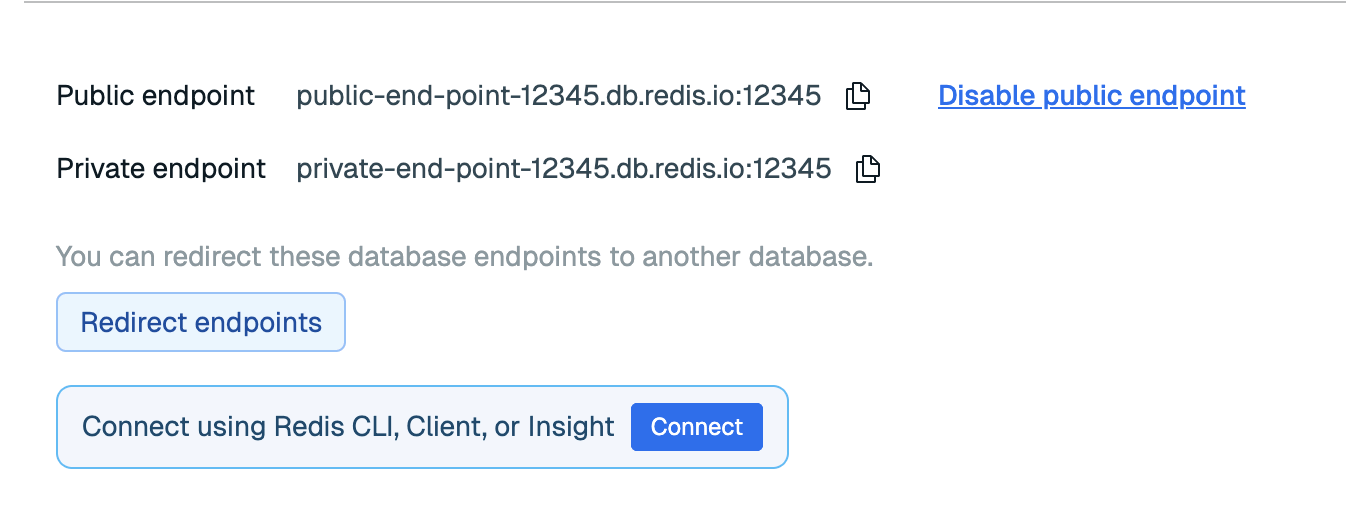
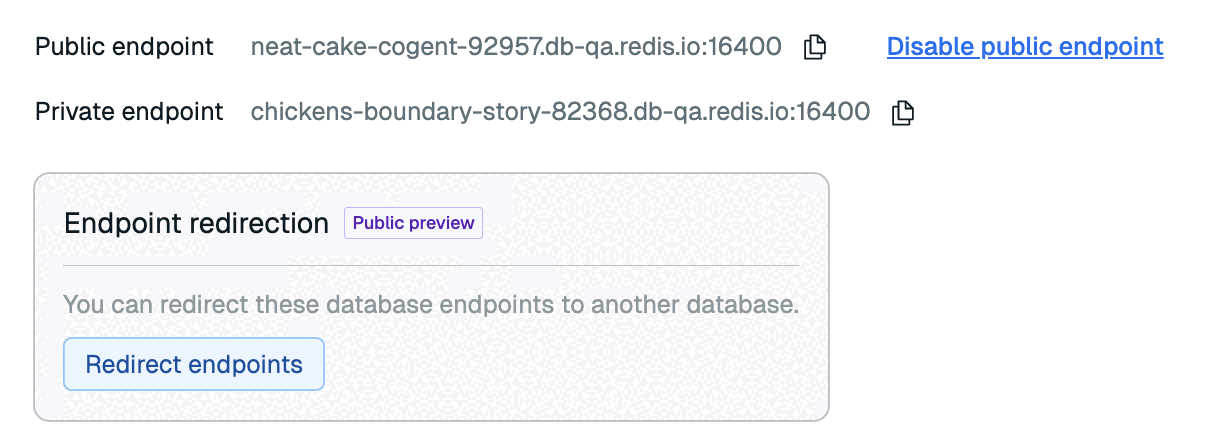
Unblock traffic

diff --git a/content/operate/rc/databases/redirect-endpoints.md b/content/operate/rc/databases/redirect-endpoints.md
@@ -74,7 +74,7 @@ Make sure you have met the following prerequisites:
 - Your application is using the dynamic endpoint. Endpoint redirection does not redirect [static endpoints](#applications-that-use-legacy-static-endpoints).
 - You have [created a target Redis Cloud Pro database]({{< relref "/operate/rc/databases/create-database/create-pro-database-new" >}}) in the same account that [is compatible with the source database](#redirection-compatibility).
 - If you monitor the source database with Prometheus, add the target database to Prometheus before your redirect the endpoint so that you can monitor the target database after the redirection. See [Connect to Prometheus]({{< relref "operate/rc/databases/monitor-performance#connect-to-prometheus" >}}) for more information.
-- Make sure that your client connections are configured with socket and connection timeouts. If you do not have timeouts configured, your client may hang indefinitely and the connection will not refresh. Refer to the [Client documentation]({{< relref "/develop/clients" >}}) for your client for more information.
+- Make sure that your client connections are configured with socket timeouts. If you do not have socket timeouts configured, your client may hang indefinitely and the connection will not refresh. Refer to the [Client documentation]({{< relref "/develop/clients" >}}) for your client for more information.
 
 #### Redirection compatibility
 
@@ -122,7 +122,7 @@ To redirect your database endpoints:
 
     {{<image filename="images/rc/migrate-data-redirect-acknowledge.png" alt="The **Redirect endpoints** button redirects the source database endpoints to the target database." >}}
 
-After you redirect your database endpoints, you can go to the **Configuration** tab of the target database to verify that the endpoints now point to the target database. To ensure all connections are redirected to the target database, Redis Cloud will block all traffic to the source database until you [unblock it](#unblock-traffic-to-the-source-database).
+After you redirect your database endpoints, you can go to the **Configuration** tab of the target database to verify that the endpoints now point to the target database. To ensure all connections are redirected to the target database, Redis Cloud will block all traffic to the source database for five minutes to ensure all clients have reconnected to the target database. After five minutes, you can  [unblock traffic to the source database](#unblock-database-traffic). You can also [revert the redirection](#revert-endpoint-redirection) within 24 hours to restore the original endpoints.
 
 ## Revert endpoint redirection
 
@@ -132,11 +132,17 @@ You can revert endpoint redirection within 24 hours to restore the original endp
 
 After the 24-hour window, you can no longer revert to the original endpoints. You can redirect them back to the source database if the source database is a Redis Cloud Pro database. However, doing this will create new endpoints for the target database.
 
-## Unblock traffic to the source database
+After you revert endpoint redirection, Redis Cloud will unblock traffic to the source database and block traffic to the target database for five minutes to ensure all clients have reconnected to the source database. After five minutes, you can [unblock traffic to the target database](#unblock-database-traffic).
 
-TODO - need a setup to work first
+## Unblock database traffic
 
+After you redirect your database endpoints, Redis Cloud will block all traffic to the source database for at least five minutes to ensure all clients have reconnected to the target database. If you revert endpoint redirection, Redis Cloud will unblock traffic to the source database and block traffic to the target database for at least five minutes to ensure all clients have reconnected to the source database. If Redis Cloud has blocked traffic to a database, the database will display a **Traffic blocked** badge in the Redis Cloud console.
 
+{{<image filename="images/rc/migrate-data-traffic-blocked.png" alt="The **Traffic blocked** badge indicates that Redis Cloud has blocked traffic to the database." >}}
 
+You will not be able to unblock traffic to a database until five minutes after you redirect your database endpoints or revert endpoint redirection. Before you unblock traffic to a database, make sure that all clients have reconnected to the correct database.
 
+To unblock traffic to a database, from the database's **Configuration** tab, select **Unblock traffic**.
+
+{{<image filename="images/rc/migrate-data-redirect-unblock.png" alt="The **Unblock traffic** button unblocks traffic to the source database." >}}
 
